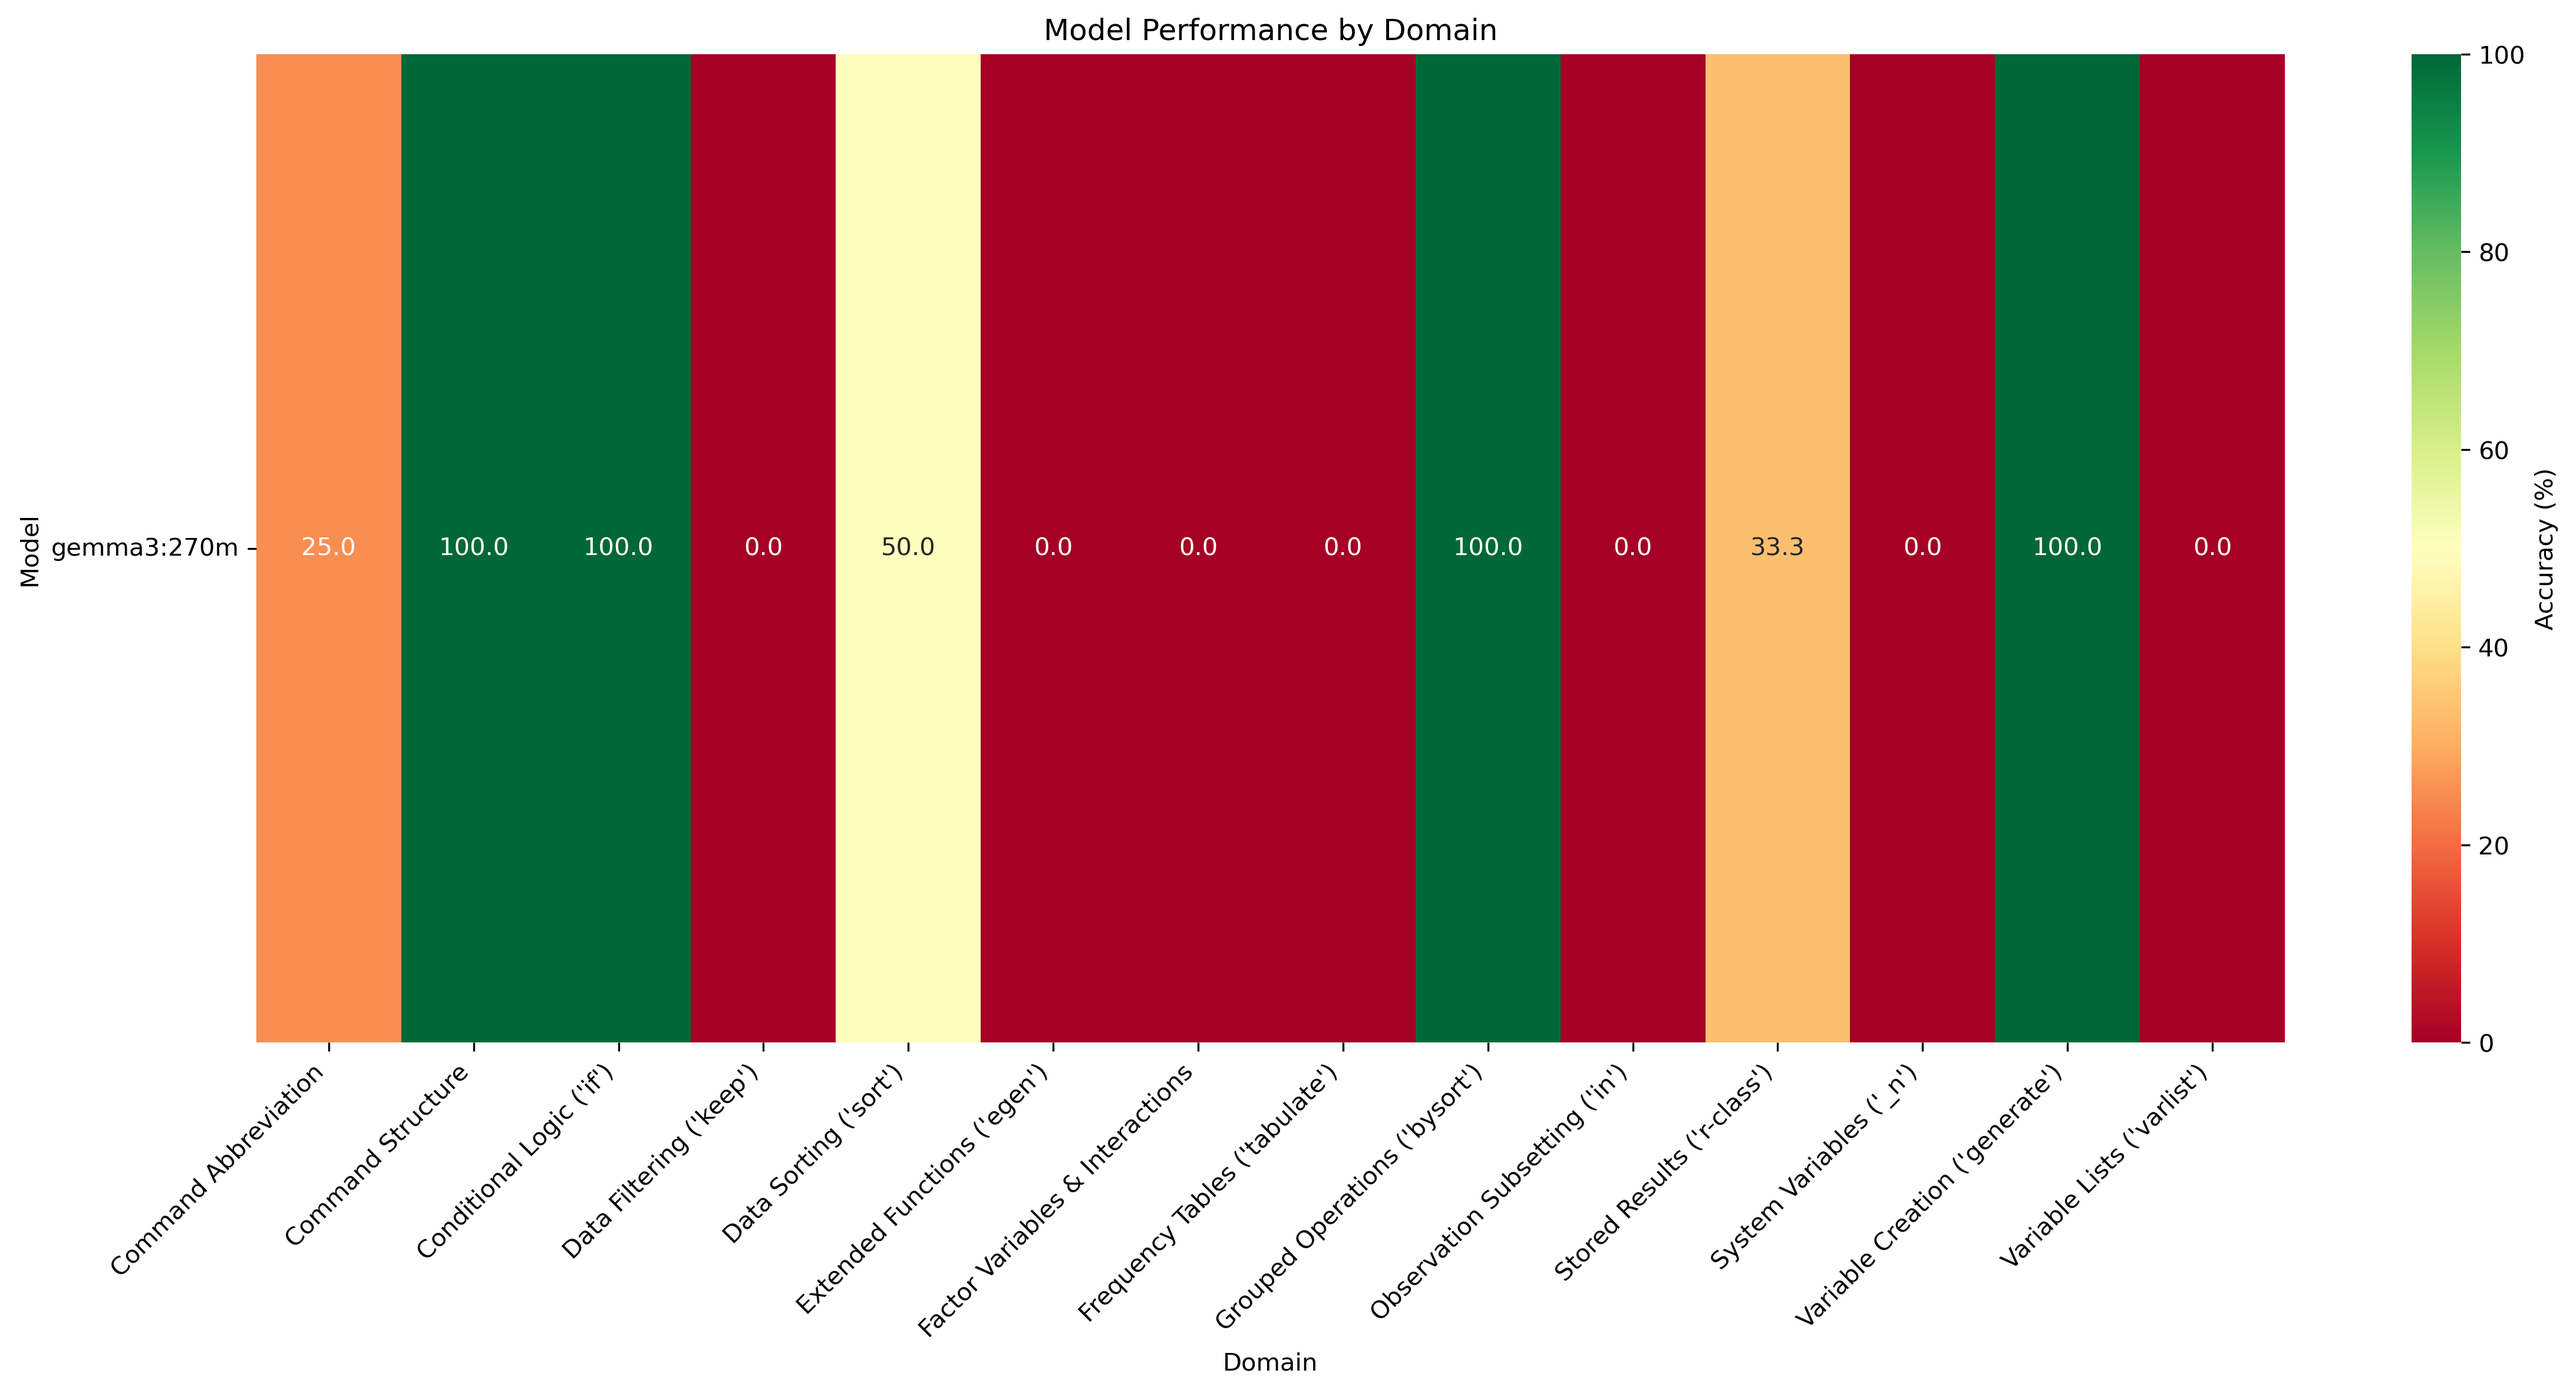
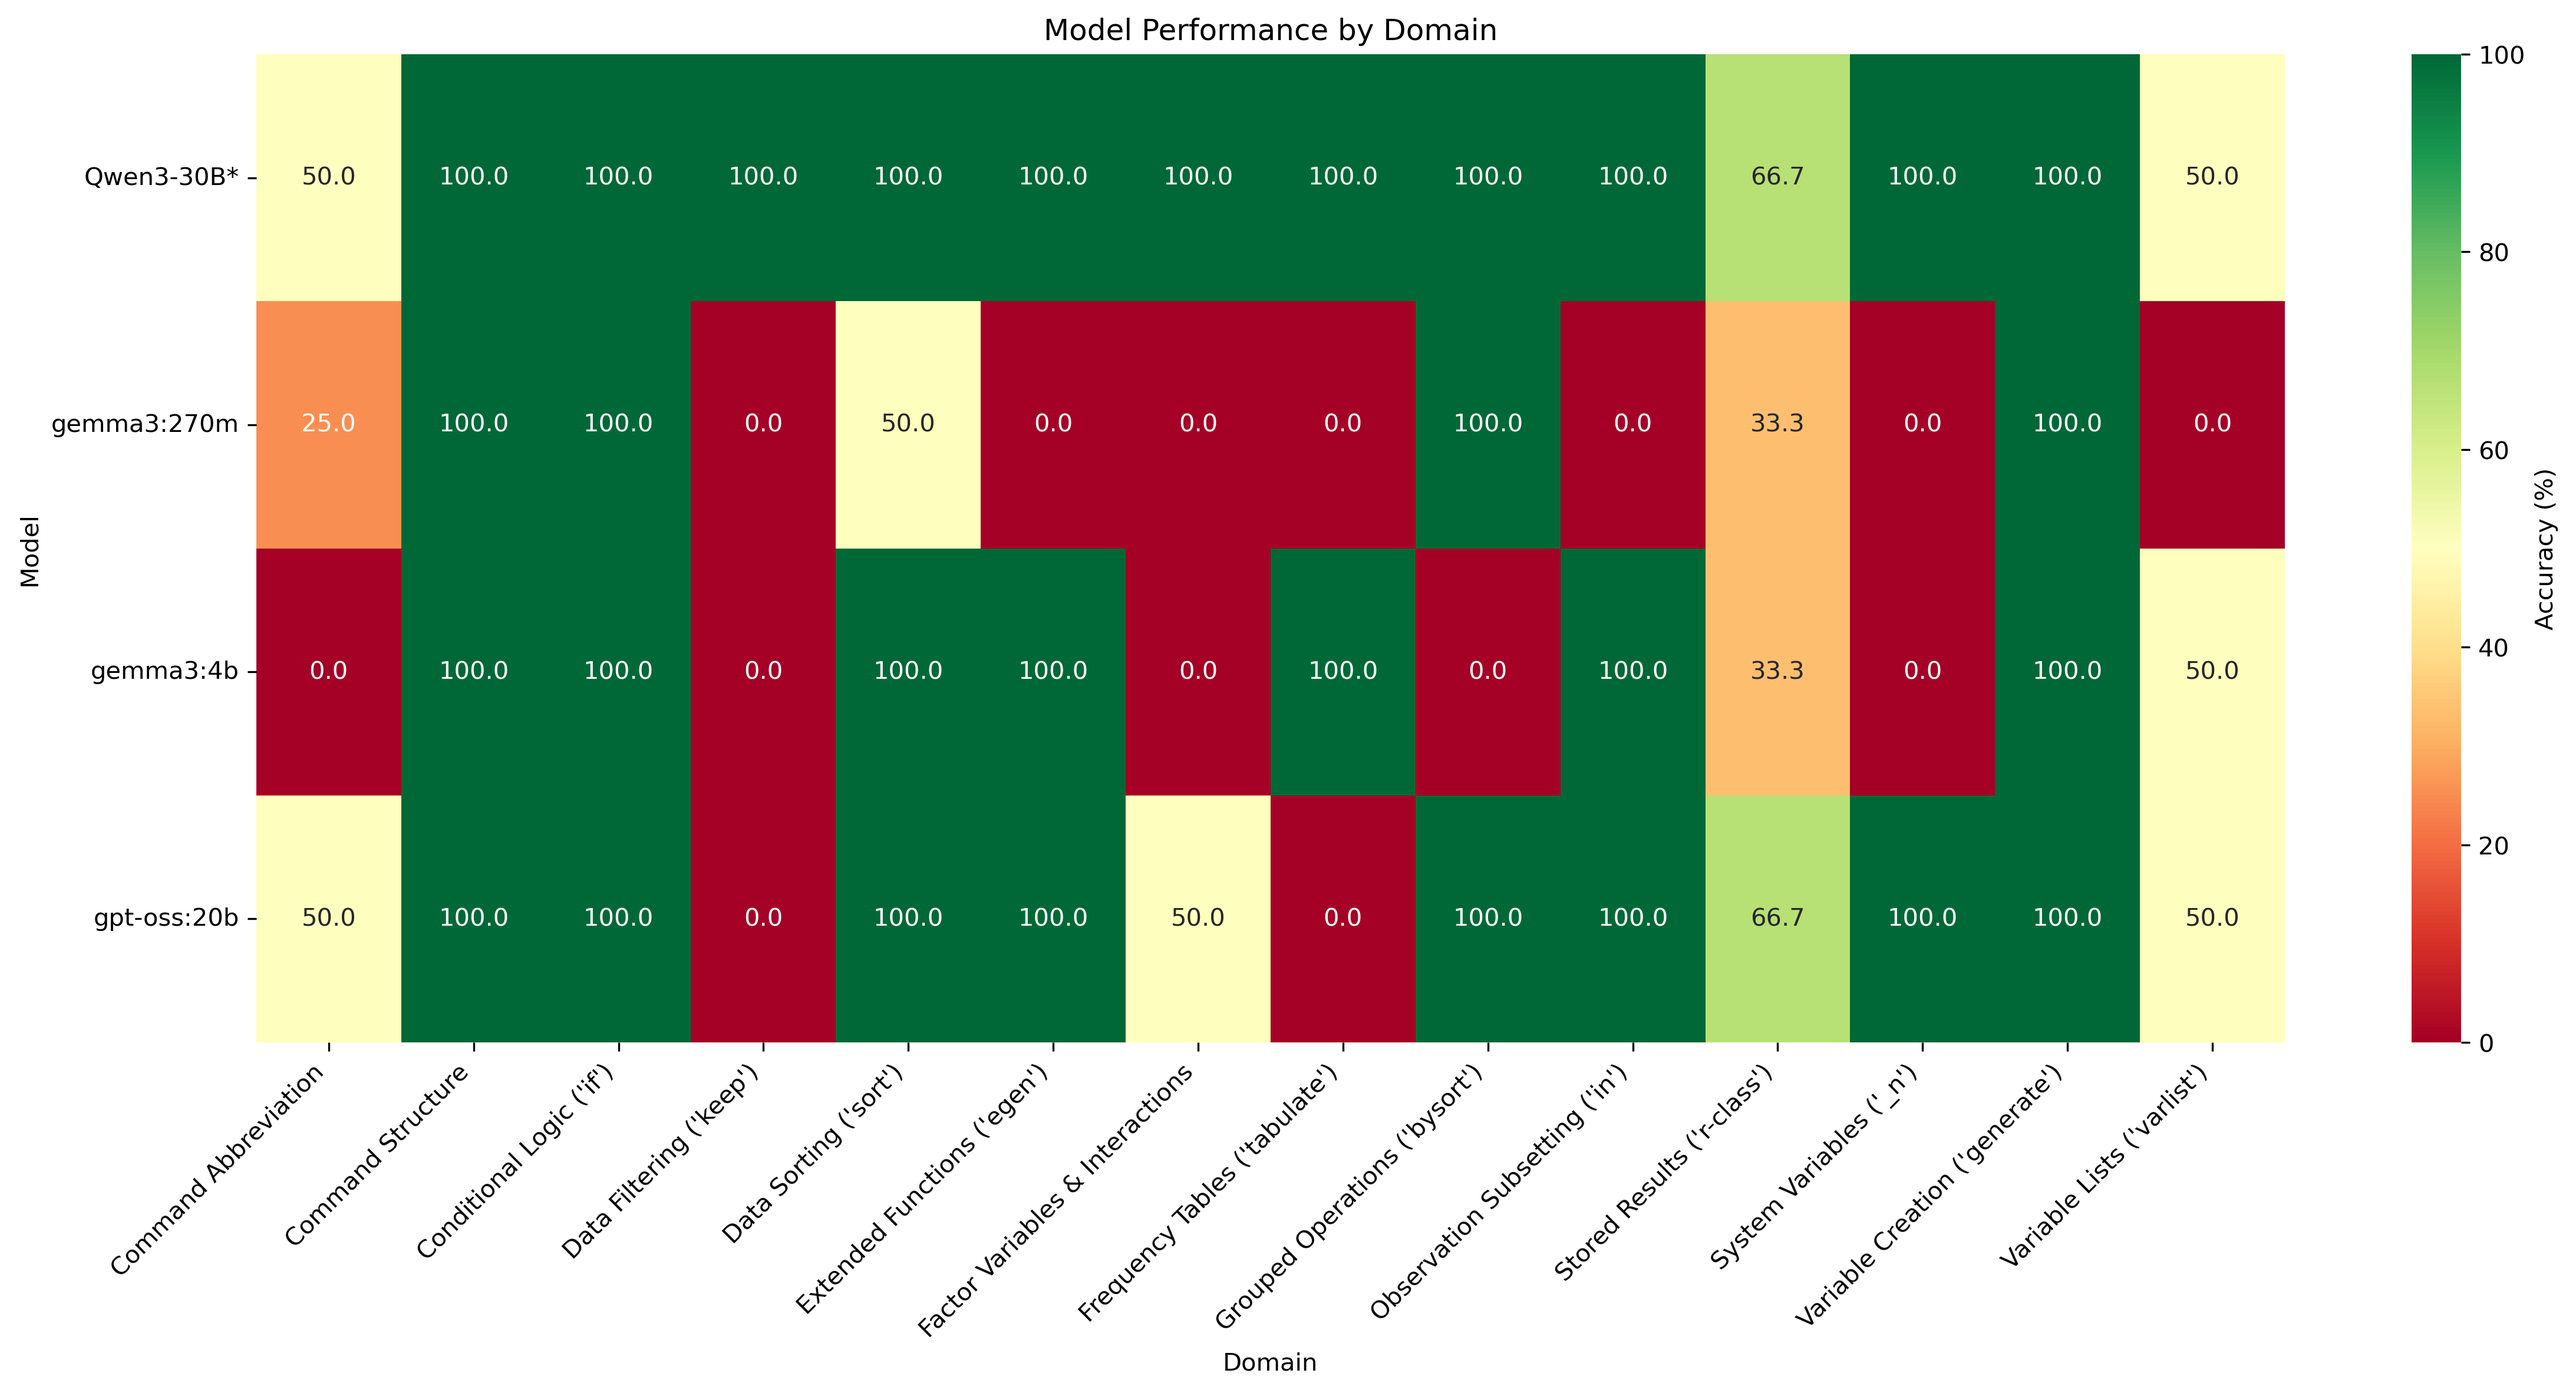
works across multiple local llms

diff --git a/todo.md b/todo.md
@@ -1,0 +1,47 @@
+# TODO List - Benchmark Runner Enhancements
+
+## 🔍 Quality Assurance
+- [ ] **Check that items are being answered fairly by the models**
+  - Review current question responses to ensure evaluation correctness
+  - Verify models aren't systematically disadvantaged by question format
+  - Test edge cases and ambiguous questions
+  - Validate scoring logic across different answer types
+
+## 📚 Content Expansion  
+- [ ] **Add additional benchmark items to expand test coverage**
+  - Create more questions across different Stata domains
+  - Add varying difficulty levels (beginner, intermediate, advanced)
+  - Include more diverse question formats
+  - Ensure balanced representation across topic areas
+
+## 🚀 Frontier Model Integration
+- [ ] **Add option to compare with frontier API model**
+  - Implement support for OpenAI GPT-4/GPT-3.5
+  - Add Anthropic Claude API integration
+  - Include other commercial models (Gemini, etc.)
+  - Handle API authentication and rate limiting
+  - Add cost tracking for API calls
+
+## 📄 Enhanced Reporting
+- [ ] **Create nice markdown format output for model comparisons**
+  - Generate structured markdown reports
+  - Include comparison tables with statistics
+  - Add performance rankings and insights
+  - Create exportable summary documents
+  - Include methodology and limitations sections
+
+## 🔧 Additional Improvements
+- [ ] **Add configuration file support**
+  - YAML/JSON config for default settings
+  - Model-specific parameter presets
+  - Custom scoring rules per question type
+
+- [ ] **Implement resume capability**
+  - Save progress state during long runs
+  - Resume interrupted benchmark sessions
+  - Skip already completed questions
+
+- [ ] **Add detailed error reporting**
+  - Log API failures and retries
+  - Track model-specific error patterns
+  - Generate error analysis reports
